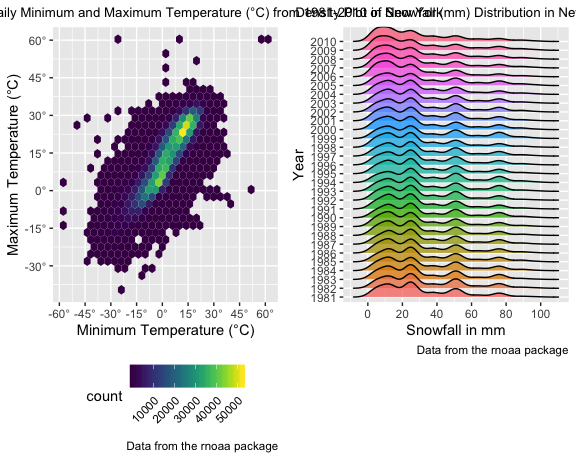
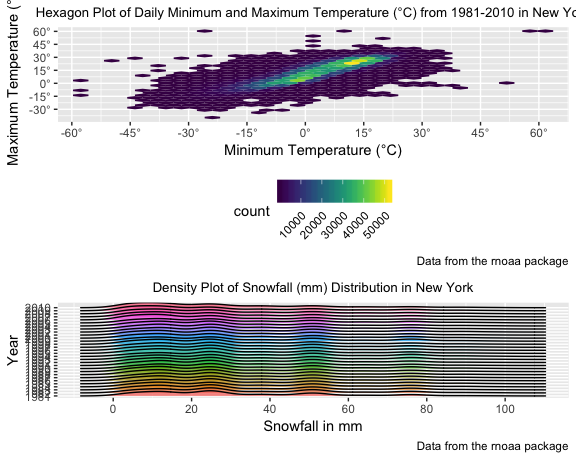
Final commit? Making these plots look perfect is difficult

diff --git a/p8105_hw3_edm2152.md b/p8105_hw3_edm2152.md
@@ -174,7 +174,7 @@ instacart_data %>%
        x = "Number of Items",
        y = "Aisle Name") +
   theme(axis.text.x = element_text(angle = 45, hjust = 1, size = 5),
-        axis.text.y = element_text(size = 4),
+        axis.text.y = element_text(angle = 45, hjust = 1, size = 4),
         legend.position = "none",
         legend.text = element_text(angle = 45, hjust = 1),
         plot.title = element_text(hjust = 0.5, size = 10))
@@ -328,7 +328,7 @@ snowfall_plot =
   theme(plot.title = element_text(hjust = 0.5, size = 10),
         legend.position = "none")
 
-temp_plot + snowfall_plot
+temp_plot / snowfall_plot
 ```
 
     ## Picking joint bandwidth of 3.76
